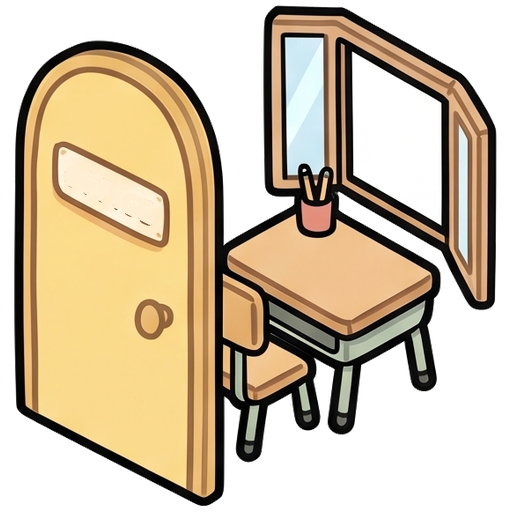
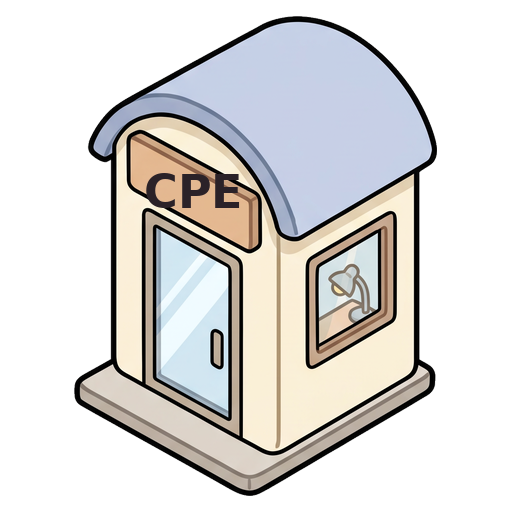
Nouveaux portail et CPE, fenêtre ronde, basket posée sur la cour (DF.20)
Claude-Session: https://claude.ai/code/session_01QntoMPpHPuQ7LB9yJUjTqQ

diff --git a/src/game/scenes/PartieScene.ts b/src/game/scenes/PartieScene.ts
@@ -47,6 +47,7 @@ import {
   MONTEE,
   positionLieu,
   type Lieu,
+  versEcran,
 } from '../disposition';
 import { nomGouter, phraseEvenement } from '../journal';
 import { aide, tonFun, tutoPasse } from '../ton';
@@ -72,6 +73,8 @@ const TAILLE_BADGE = 70;
 const DIAMETRE_PASTILLE = 92;
 const RAYON_DEPOT = 75;
 const Y_ACTIONS = 1064 + DESCENTE;
+/** Objets décoratifs de la cour n°1 (taille en px de jeu, image de 256 px). */
+const OBJETS_COUR = [{ cle: PLATEAU.basket, x: 0.92, y: 0.65, taille: 160, angle: -6 }] as const;
 /** Temps laissé pour voir un coup avant de passer le téléphone (ms). */
 const DUREE_FIN_DE_TOUR = 900;
 /** Annonce d'une arrivée : l'élève se ramasse en l'air avant de tomber (ms). */
@@ -334,6 +337,16 @@ export class PartieScene extends Phaser.Scene {
       this.dessinerBureauCpe(b);
     }
 
+    // Objets posés sur la cour (DF.19) : placés en coordonnées de cour, loin des îlots et des
+    // allées, pour ne rien chevaucher quel que soit le format d'écran.
+    for (const objet of OBJETS_COUR) {
+      if (!this.textures.exists(objet.cle)) continue;
+      const q = versEcran(objet.x, objet.y);
+      const im = this.add.image(q.x, q.y, objet.cle);
+      im.setScale(objet.taille / 256).setAngle(objet.angle);
+      this.ajouter(im);
+    }
+
     // Îlots : des pastilles molles au trait noir, avec leur nom sur une étiquette.
     const etiquettes: (() => void)[] = [];
     for (const id of this.cour.ilots) {
@@ -514,16 +527,7 @@ export class PartieScene extends Phaser.Scene {
       const im = this.add.image(p.x, p.y - 8, piece);
       im.setScale(136 / 512);
       this.ajouter(im);
-      // Badge de forme de la bande (rond ou carré), lisible sans les couleurs.
-      const g = this.ajouter(this.add.graphics());
-      const graine = graineDe(p.x, p.y);
-      forme(
-        g,
-        bande === 'rouge'
-          ? contourRond(p.x + 40, p.y + 26, 12, graine + 2)
-          : contourRect(p.x + 28, p.y + 14, 24, 24, 3, graine + 2, 0.5),
-        { remplissage: bande === 'rouge' ? COULEURS.rouge : COULEURS.bleu, trait: 3 },
-      );
+      // La forme de la bande est dans la fenêtre : ronde chez les rouges, carrée chez les bleus.
       return;
     }
     const g = this.ajouter(this.add.graphics());
@@ -613,7 +617,7 @@ export class PartieScene extends Phaser.Scene {
     );
     const g = this.add.graphics();
     if (this.textures.exists(PLATEAU.portail)) {
-      c.add(this.add.image(-26, 8, PLATEAU.portail).setScale(64 / 512));
+      c.add(this.add.image(-28, 6, PLATEAU.portail).setScale(78 / 512));
       g.setVisible(false);
     }
     // Grille du portail : deux piliers et des barreaux.
@@ -680,7 +684,7 @@ export class PartieScene extends Phaser.Scene {
     );
     const g = this.add.graphics();
     if (this.textures.exists(PLATEAU.cpe)) {
-      c.add(this.add.image(-36, 8, PLATEAU.cpe).setScale(58 / 512));
+      c.add(this.add.image(-36, 4, PLATEAU.cpe).setScale(74 / 512));
       g.setVisible(false);
     }
     // Porte vitrée du bureau.

diff --git a/src/game/scenes/ChargementScene.ts b/src/game/scenes/ChargementScene.ts
@@ -17,6 +17,7 @@ export const PLATEAU = {
   cabaneBleue: 'plateau-cabane-bleue',
   portail: 'plateau-portail',
   cpe: 'plateau-cpe',
+  basket: 'plateau-basket',
 } as const;
 export const ILLUSTRATIONS: Partial<Record<string, string>> = { banc: 'decor-banc' };
 
@@ -46,6 +47,7 @@ export class ChargementScene extends Phaser.Scene {
       cabaneBleue: 'cabane-bleue',
       portail: 'portail',
       cpe: 'cpe',
+      basket: 'basket',
     };
     for (const [piece, cle] of Object.entries(PLATEAU)) {
       this.load.image(cle, avecVersion(`plateau/${fichiers[piece as keyof typeof PLATEAU]}.png`));

diff --git a/docs/decisions.md b/docs/decisions.md
@@ -122,3 +122,4 @@ Le prompt de Clément fait foi ; le document de conception sert de complément.
 
 - **DF.18 — Plateau illustré dans le style dodu (phase 2, demande de Clément : « décor de la cour et phase 2 de l'audit » ; inquiétude : « que ces nouveaux décors surchargent la map »).** Les îlots, l'îlot spécial, les deux cabanes, le portail et le bureau de la CPE sont maintenant des images générées dans le même trait que les élèves (planche Higgsfield en 3/4, job e0f020f3), découpées et posées dans `public/plateau/` (512×512, puissances de 2). La pancarte « OFFICE » de la porte de la CPE a été effacée. Une pastille rond/carré reste sur chaque cabane pour reconnaître la bande. Si une image manque, le dessin en code d'avant reprend sa place. Le décor du fond ne change pas : la version avec un local à vélos en bas chargeait la zone du rang et du bouton, elle est gardée de côté.
 - **DF.19 — Retouches du plateau illustré (remarques de Clément : « redescendre un peu l'ensemble pour ne pas couper la maison », « attention aux superpositions entre les îlots et l'évier et la basket »).** La cour descend de 40 px et se resserre d'autant (la cabane du haut ne passe plus sous le bandeau). Les cabanes sont un peu plus petites et le bouton d'appel descend de 12 px pour que la cabane du bas ne le touche plus. L'évier et la basket sont effacés du décor : ils tombaient sous les bancs quel que soit le format d'écran.
+- **DF.20 — Portail, CPE, fenêtres et basket (demandes de Clément : « revoir l'illu CPE et portail », « plutôt qu'un picto carré et rond sur les cabanes, adapter la forme de leur fenêtre », « j'aimais bien qu'il y ait des éléments décoratifs comme la basket, il faut juste éviter la superposition avec les îlots »).** Nouveau portail (grille verte entre deux piliers de pierre) et nouveau bureau de la CPE (guérite crème à toit bleu, pancarte « CPE »), générés sur une planche dédiée (job f3f3aef7) et un peu plus grands dans leur panneau. Les pastilles rond/carré des cabanes disparaissent : la cabane rouge a une fenêtre ronde, la bleue garde sa fenêtre carrée. La basket revient comme objet posé sur la cour (`OBJETS_COUR`), placé en coordonnées de cour sous le banc de droite, hors des allées, pour ne jamais chevaucher un îlot quel que soit l'écran.
